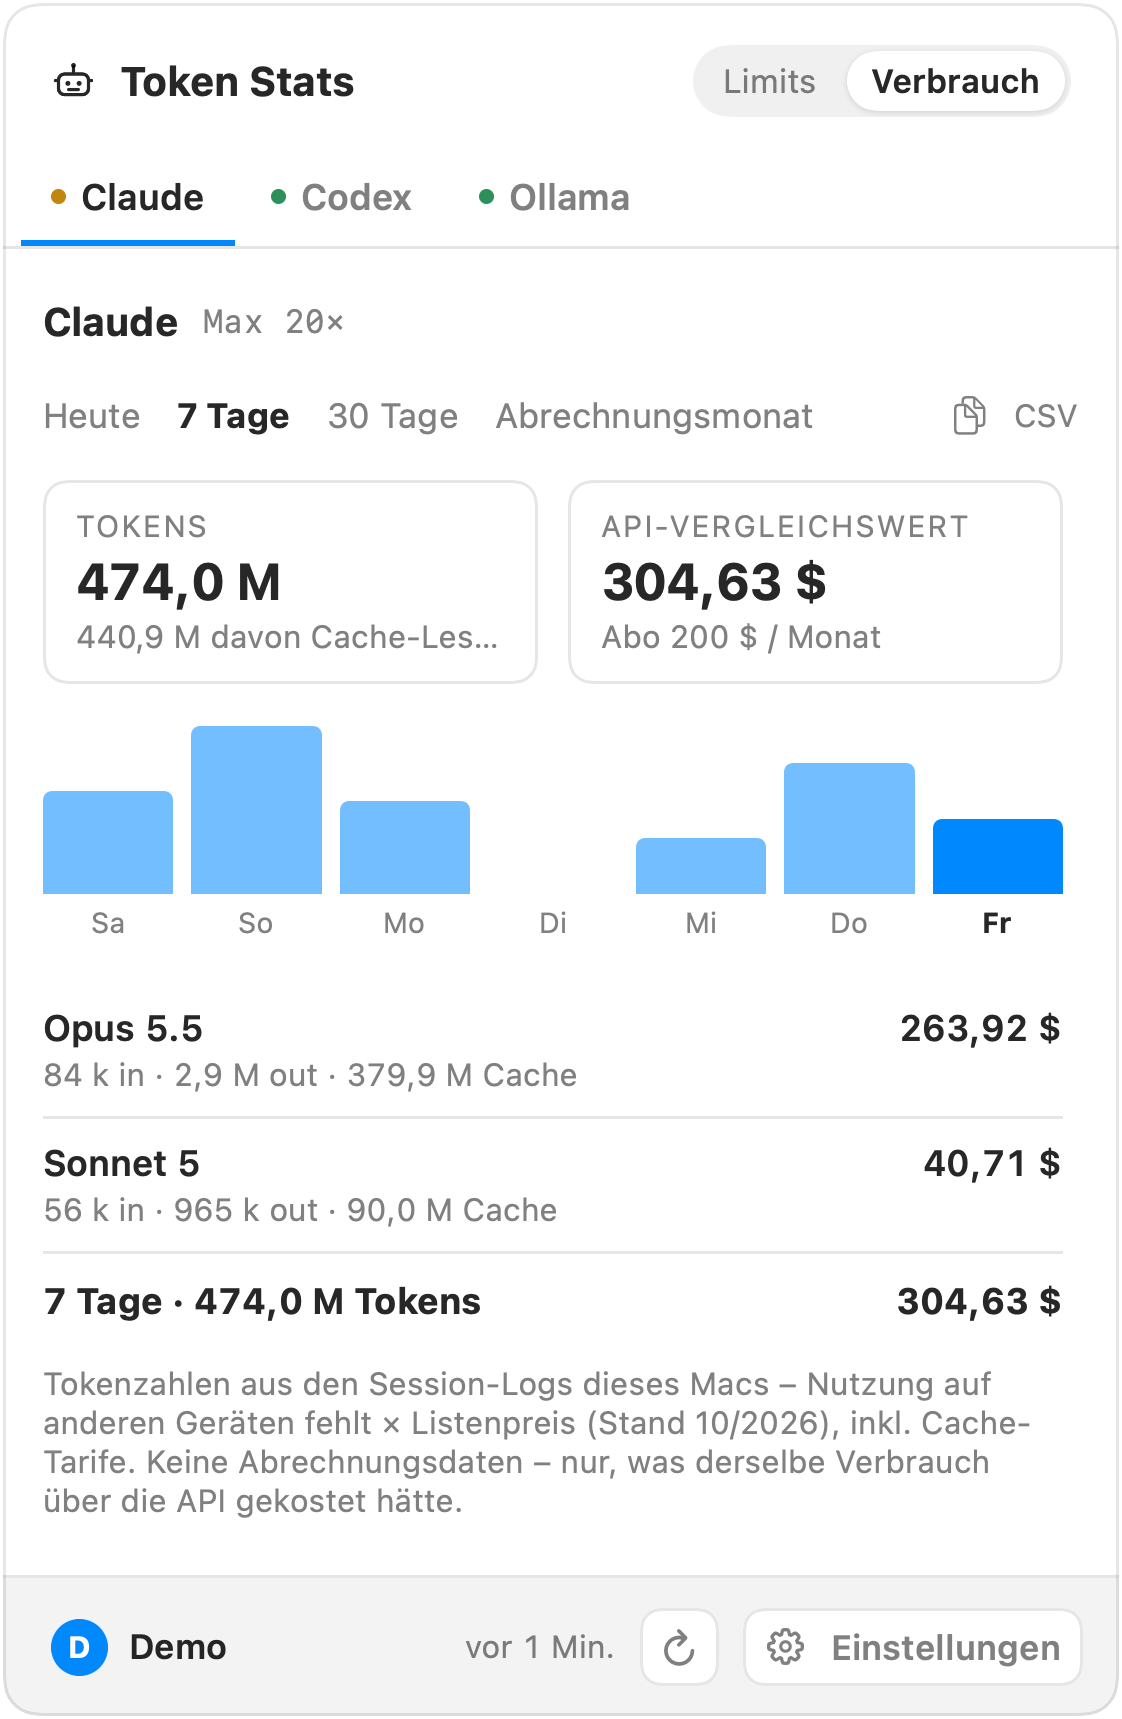
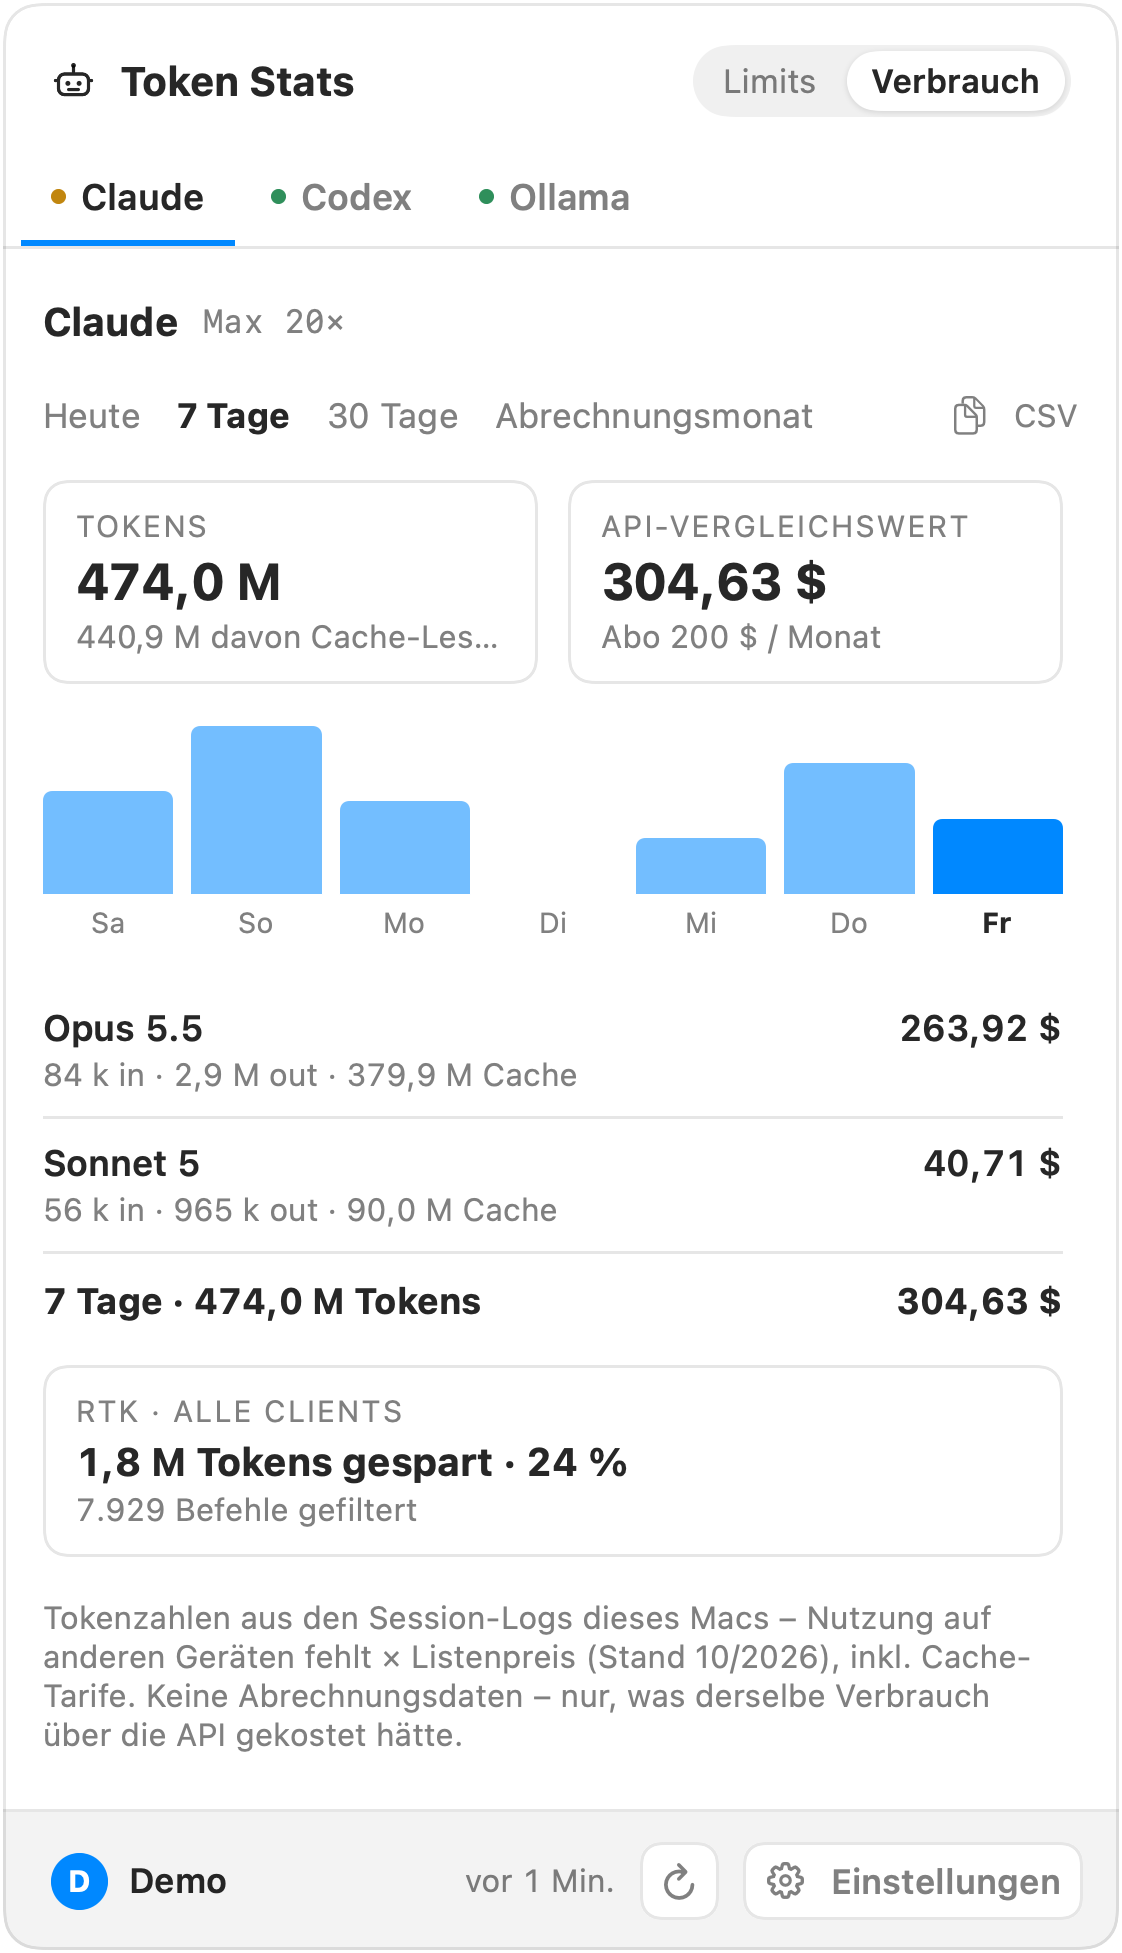
feat: rtk-Ersparnis auf der Seite „Verbrauch“ (#15)
Ist rtk installiert, zeigt die Seite „Verbrauch“ unter der Modell-Liste den Block
„RTK · alle Clients“ mit gesparten Tokens, Anteil und gefilterten Befehlen im
gewählten Zeitraum. Quelle ist `rtk gain --format json --daily`, ohne rtk fehlt
der Block. Kein Geldbetrag, nicht im CSV-Export und nicht in den Widgets.

diff --git a/Packages/TokenStatsCore/Sources/TokenStatsCore/Usage/RtkSavings.swift b/Packages/TokenStatsCore/Sources/TokenStatsCore/Usage/RtkSavings.swift
@@ -1,0 +1,75 @@
+import Foundation
+
+/// Ein Tag aus `rtk gain --format json --daily`: was rtk an Befehlsausgaben gefiltert hat.
+public struct RtkDay: Equatable, Sendable {
+    public var day: String          // "2026-11-20", Tagesgrenze von rtk
+    public var commands: Int
+    public var inputTokens: Int
+    public var savedTokens: Int
+
+    public init(day: String, commands: Int, inputTokens: Int, savedTokens: Int) {
+        self.day = day
+        self.commands = commands
+        self.inputTokens = inputTokens
+        self.savedTokens = savedTokens
+    }
+}
+
+/// Ersparnis durch rtk in einem Zeitraum – über alle Clients, rtk kennt den auslösenden Agent nicht.
+public struct RtkSummary: Equatable, Sendable {
+    public var commands: Int
+    public var inputTokens: Int
+    public var savedTokens: Int
+
+    public init(commands: Int = 0, inputTokens: Int = 0, savedTokens: Int = 0) {
+        self.commands = commands
+        self.inputTokens = inputTokens
+        self.savedTokens = savedTokens
+    }
+
+    /// Anteil der gesparten an den ungefilterten Tokens; `nil`, wenn nichts gefiltert wurde.
+    public var savedFraction: Double? {
+        inputTokens > 0 ? Double(savedTokens) / Double(inputTokens) : nil
+    }
+}
+
+/// Liest die Tageswerte, die `rtk gain` selbst ausgibt. Bewusst nicht rtks `history.db`:
+/// Das Schema ist undokumentiert, und die Rohsummen dort enthalten Einträge, die `rtk gain`
+/// nicht mitzählt – der Block soll mit `rtk gain` übereinstimmen.
+public enum RtkSavings {
+    public static let arguments = ["gain", "--format", "json", "--daily"]
+
+    /// `nil` bei kaputter JSON oder fehlendem `daily`; Tage ohne vollständige Zahlen fallen weg.
+    public static func parse(_ data: Data) -> [RtkDay]? {
+        guard let object = try? JSONSerialization.jsonObject(with: data) as? [String: Any],
+              let daily = object["daily"] as? [[String: Any]]
+        else { return nil }
+        return daily.compactMap { entry in
+            guard let day = entry["date"] as? String,
+                  let commands = (entry["commands"] as? NSNumber)?.intValue,
+                  let input = (entry["input_tokens"] as? NSNumber)?.intValue,
+                  let saved = (entry["saved_tokens"] as? NSNumber)?.intValue
+            else { return nil }
+            return RtkDay(day: day, commands: commands, inputTokens: input, savedTokens: saved)
+        }
+    }
+
+    /// Summe der Tage `from…through` (einschließlich), Schlüssel wie `UsageSummary.key`.
+    public static func summary(_ days: [RtkDay], from: String, through: String) -> RtkSummary {
+        days.filter { $0.day >= from && $0.day <= through }.reduce(into: RtkSummary()) { sum, day in
+            sum.commands += day.commands
+            sum.inputTokens += day.inputTokens
+            sum.savedTokens += day.savedTokens
+        }
+    }
+
+    /// Je Zeitraum die Summe, mit denselben Grenzen wie die Seite „Verbrauch“.
+    public static func summaries(_ days: [RtkDay], now: Date = .now, billingDay: Int,
+                                 calendar: Calendar = .current) -> [UsagePeriod: RtkSummary] {
+        Dictionary(uniqueKeysWithValues: UsagePeriod.allCases.map { period in
+            let range = period.range(now: now, billingDay: billingDay, calendar: calendar)
+            return (period, summary(days, from: UsageSummary.key(range.from, calendar),
+                                    through: UsageSummary.key(range.through, calendar)))
+        })
+    }
+}

diff --git a/Tests/TokenStatsTests/UsageTests.swift b/Tests/TokenStatsTests/UsageTests.swift
@@ -181,3 +181,48 @@ import TokenStatsCore
         #expect(csv.contains("\nGesamt;;1000010;100005;100000;2000000;3200015\n"))
     }
 }
+
+@Suite struct RtkSavingsTests {
+    // Auszug aus `rtk gain --format json --daily` (rtk 1.1.0).
+    static let json = #"""
+    {"summary":{"total_commands":3,"total_saved":30},
+     "daily":[
+      {"date":"2026-11-18","commands":10,"input_tokens":1000,"output_tokens":800,"saved_tokens":200,"savings_pct":20.0},
+      {"date":"2026-11-19","commands":5,"input_tokens":400,"output_tokens":300,"saved_tokens":100,"savings_pct":25.0},
+      {"date":"2026-11-20","commands":2,"input_tokens":"x","saved_tokens":1},
+      {"date":"2026-11-20","commands":3,"input_tokens":600,"output_tokens":450,"saved_tokens":150,"savings_pct":25.0}
+     ]}
+    """#
+
+    @Test func parsesDailyAndSkipsIncompleteDays() throws {
+        let days = try #require(RtkSavings.parse(Data(Self.json.utf8)))
+        #expect(days.count == 3)
+        #expect(days.first == RtkDay(day: "2026-11-18", commands: 10, inputTokens: 1000, savedTokens: 200))
+    }
+
+    @Test func brokenOrMissingDailyIsNil() {
+        #expect(RtkSavings.parse(Data("kein json".utf8)) == nil)
+        #expect(RtkSavings.parse(Data(#"{"summary":{}}"#.utf8)) == nil)
+        #expect(RtkSavings.parse(Data(#"{"daily":[]}"#.utf8)) == [])
+    }
+
+    @Test func summaryRespectsRangeBounds() throws {
+        let days = try #require(RtkSavings.parse(Data(Self.json.utf8)))
+        let sum = RtkSavings.summary(days, from: "2026-11-19", through: "2026-11-20")
+        #expect(sum == RtkSummary(commands: 8, inputTokens: 1000, savedTokens: 250))
+        #expect(sum.savedFraction == 0.25)
+        #expect(RtkSavings.summary(days, from: "2026-11-21", through: "2026-11-22") == RtkSummary())
+        #expect(RtkSummary().savedFraction == nil)
+    }
+
+    @Test func summariesFollowUsagePeriods() throws {
+        var calendar = Calendar(identifier: .gregorian)
+        calendar.timeZone = TimeZone(identifier: "Europe/Berlin")!
+        let now = try #require(calendar.date(from: DateComponents(year: 2026, month: 11, day: 20, hour: 12)))
+        let days = try #require(RtkSavings.parse(Data(Self.json.utf8)))
+        let byPeriod = RtkSavings.summaries(days, now: now, billingDay: 19, calendar: calendar)
+        #expect(byPeriod[.today]?.savedTokens == 150)
+        #expect(byPeriod[.week]?.savedTokens == 450)
+        #expect(byPeriod[.billing]?.savedTokens == 250)
+    }
+}

diff --git a/Sources/TokenStats/Usage/RtkReader.swift b/Sources/TokenStats/Usage/RtkReader.swift
@@ -1,0 +1,52 @@
+import Foundation
+import TokenStatsCore
+
+/// Ruft `rtk gain --format json --daily` auf, falls rtk installiert ist. Nur lokal, kein Netz.
+enum RtkReader {
+    /// GUI-Apps erben keinen Shell-PATH, darum die üblichen Installationsorte der Reihe nach.
+    static func executable(home: URL = FileManager.default.homeDirectoryForCurrentUser) -> URL? {
+        let candidates = [
+            URL(filePath: "/opt/homebrew/bin/rtk"),
+            URL(filePath: "/usr/local/bin/rtk"),
+            home.appending(path: ".cargo/bin/rtk"),
+            home.appending(path: ".local/bin/rtk"),
+        ]
+        return candidates.first { FileManager.default.isExecutableFile(atPath: $0.path) }
+    }
+
+    static let timeout: TimeInterval = 10
+
+    /// `nil`, wenn rtk fehlt, fehlschlägt, hängt oder etwas Unlesbares ausgibt – dann fehlt der Block.
+    static func load() async -> [RtkDay]? {
+        guard let url = executable() else { return nil }
+        return await Task.detached(priority: .utility) { run(url) }.value
+    }
+
+    private static func run(_ url: URL) -> [RtkDay]? {
+        let process = Process()
+        process.executableURL = url
+        process.arguments = RtkSavings.arguments
+        let output = Pipe()
+        process.standardOutput = output
+        process.standardError = FileHandle.nullDevice
+        process.standardInput = FileHandle.nullDevice
+        do { try process.run() } catch {
+            NSLog("Token Stats: rtk nicht startbar: \(error.localizedDescription)")
+            return nil
+        }
+        let watchdog = DispatchWorkItem { if process.isRunning { process.terminate() } }
+        DispatchQueue.global().asyncAfter(deadline: .now() + timeout, execute: watchdog)
+        let data = output.fileHandleForReading.readDataToEndOfFile()
+        process.waitUntilExit()
+        watchdog.cancel()
+        guard process.terminationStatus == 0 else {
+            NSLog("Token Stats: rtk gain endete mit \(process.terminationStatus)")
+            return nil
+        }
+        guard let days = RtkSavings.parse(data) else {
+            NSLog("Token Stats: Ausgabe von rtk gain nicht lesbar")
+            return nil
+        }
+        return days
+    }
+}

diff --git a/Sources/TokenStats/UI/UsageView.swift b/Sources/TokenStats/UI/UsageView.swift
@@ -125,6 +125,10 @@ struct UsageView: View {
             .padding(.top, 8)
         }
 
+        if let rtk = consumption.rtk?[period] {
+            RtkBlock(summary: rtk)
+        }
+
         Text(footnote(summary))
             .font(.system(size: 10.5))
             .foregroundStyle(.secondary)
@@ -176,6 +180,44 @@ private struct Tile: View {
         .padding(.vertical, 9)
         .background(RoundedRectangle(cornerRadius: 8).fill(.background))
         .overlay(RoundedRectangle(cornerRadius: 8).strokeBorder(.separator))
+    }
+}
+
+/// Ersparnis durch rtk im gewählten Zeitraum. rtk kennt den auslösenden Agent nicht,
+/// darum steht derselbe Block in jedem Tab und ohne Geldbetrag.
+private struct RtkBlock: View {
+    let summary: RtkSummary
+
+    var body: some View {
+        VStack(alignment: .leading, spacing: 2) {
+            Text("RTK · alle Clients".uppercased())
+                .font(.system(size: 10))
+                .tracking(0.6)
+                .foregroundStyle(.secondary)
+            if summary.commands == 0 {
+                Text("Keine gefilterten Befehle in diesem Zeitraum.")
+                    .font(.system(size: 11.5))
+                    .foregroundStyle(.secondary)
+            } else {
+                Text(saved)
+                    .font(.system(size: 13, weight: .bold))
+                Text("\(Format.number(Double(summary.commands), digits: 0)) Befehle gefiltert")
+                    .font(.system(size: 10.5))
+                    .foregroundStyle(.secondary)
+            }
+        }
+        .monospacedDigit()
+        .frame(maxWidth: .infinity, alignment: .leading)
+        .padding(.horizontal, 11)
+        .padding(.vertical, 9)
+        .background(RoundedRectangle(cornerRadius: 8).fill(.background))
+        .overlay(RoundedRectangle(cornerRadius: 8).strokeBorder(.separator))
+        .help("Aus rtk gain – Befehle aller Clients auf diesem Rechner")
+    }
+
+    private var saved: String {
+        let tokens = "\(Format.tokens(summary.savedTokens)) Tokens gespart"
+        return summary.savedFraction.map { "\(tokens) · \(Format.percent($0))" } ?? tokens
     }
 }
 

diff --git a/Packages/TokenStatsCore/Sources/TokenStatsCore/Widgets/DemoData.swift b/Packages/TokenStatsCore/Sources/TokenStatsCore/Widgets/DemoData.swift
@@ -115,6 +115,19 @@ public enum DemoData {
         }
     }
 
+    /// 30 Tage rtk-Ersparnis, etwa ein Viertel der Befehlsausgaben gefiltert.
+    public static func rtk(now: Date, billingDay: Int, calendar: Calendar = .current) -> [UsagePeriod: RtkSummary] {
+        let pattern: [Double] = [0.8, 1.1, 0.6, 1.3, 0.2, 0, 0.4, 1.0, 1.2, 0.7, 1.5, 0.9, 0.1, 0,
+                                 0.9, 0.5, 1.4, 1.1, 0.6, 0.3, 0.1, 1.2, 0.8, 1.0, 1.7, 0.9, 0, 0.5, 1.3, 0.7]
+        let today = calendar.startOfDay(for: now)
+        let days = pattern.enumerated().map { index, factor in
+            let day = calendar.date(byAdding: .day, value: index - (pattern.count - 1), to: today)!
+            return RtkDay(day: UsageSummary.key(day, calendar), commands: Int(1_300 * factor),
+                          inputTokens: Int(1_250_000 * factor), savedTokens: Int(300_000 * factor))
+        }
+        return RtkSavings.summaries(days, now: now, billingDay: billingDay, calendar: calendar)
+    }
+
     /// Der komplette Widget-Stand mit Demo-Werten, für Vorschau und README.
     public static func widgetSnapshot(now: Date, prices: PriceTable = DemoData.prices, showMoney: Bool = true) -> WidgetSnapshot {
         let snapshots = snapshots(now: now)

diff --git a/Sources/TokenStats/Usage/ConsumptionStore.swift b/Sources/TokenStats/Usage/ConsumptionStore.swift
@@ -9,6 +9,8 @@ final class ConsumptionStore {
     private(set) var isScanning = false
     private(set) var hasScannedOnce = false
     private(set) var failure: String?
+    /// Ersparnis durch rtk je Zeitraum, über alle Clients; `nil` = rtk nicht installiert oder nicht lesbar.
+    private(set) var rtk: [UsagePeriod: RtkSummary]?
 
     let prices = PriceTable.bundled
     private let ledger: UsageLedger?
@@ -44,9 +46,10 @@ final class ConsumptionStore {
 
     #if DEBUG
     /// Nur für Screenshots: feste Zusammenfassungen, ohne die Logs zu lesen.
-    func showDemo(_ demo: [String: [UsagePeriod: UsageSummary]]) {
+    func showDemo(_ demo: [String: [UsagePeriod: UsageSummary]], rtk demoRtk: [UsagePeriod: RtkSummary]? = nil) {
         timer?.invalidate()
         summaries = demo
+        rtk = demoRtk
         hasScannedOnce = true
     }
     #endif
@@ -72,7 +75,9 @@ final class ConsumptionStore {
                     )
                 }
             }
+            let rtkDays = await RtkReader.load()
             summaries = result
+            rtk = rtkDays.map { RtkSavings.summaries($0, billingDay: billingDay) }
             isScanning = false
             hasScannedOnce = true
         }

diff --git a/Sources/TokenStats/App/Screenshots.swift b/Sources/TokenStats/App/Screenshots.swift
@@ -30,7 +30,10 @@ struct Screenshots {
     /// Demo-Werte für Limits und Verbrauch; nichts wird abgefragt oder aus den Logs gelesen.
     func showDemo(now: Date = .now) {
         store.showDemo(Self.demoSnapshots(now: now))
-        consumption.showDemo(Self.demoUsage(now: now, billingDay: settings.billingDay, prices: consumption.prices))
+        consumption.showDemo(
+            Self.demoUsage(now: now, billingDay: settings.billingDay, prices: consumption.prices),
+            rtk: DemoData.rtk(now: now, billingDay: settings.billingDay)
+        )
     }
 
     private func capture(into directory: URL) async throws {

diff --git a/SPEC.md b/SPEC.md
@@ -115,6 +115,14 @@ Reset Mi 09:00                      1 Tag vorgegriffen
   den Einstellungen (Standard: 1.; in kürzeren Monaten gilt der Monatsletzte). „Abo x $ /
   Monat“ nur für bekannte Pläne (Claude Pro/Max 5×/Max 20×, Codex Plus/Pro).
   Die Modellzeile zeigt „Cache“ als Summe; die Aufteilung Schreiben/Lesen steht im Tooltip.
+- **RTK-Block (Issue #15):** Ist rtk installiert, steht unter der Modell-Liste „RTK · alle
+  Clients“ mit gesparten Tokens, Anteil und Zahl der gefilterten Befehle im gewählten
+  Zeitraum; ohne Befehle im Zeitraum ein Hinweis, ohne rtk kein Block. rtk hält nicht fest,
+  welcher Agent einen Befehl ausgelöst hat, darum steht in Claude und Codex derselbe Block.
+  Kein Geldbetrag: Was eine gesparte Ausgabe wert ist, hängt zu stark von Modell und Cache
+  ab. Quelle ist `rtk gain --format json --daily`, nicht rtks `history.db` – deren Schema
+  ist undokumentiert, und die Rohsummen enthalten Einträge, die `rtk gain` nicht mitzählt.
+  Die Tagesgrenzen sind die von rtk. Nicht im CSV-Export und nicht in den Widgets.
 - **Cache getrennt ausweisen** ist Pflicht: bei Claude Code sind oft ~80 % des Volumens
   Cache-Reads zu einem Bruchteil des Input-Preises. Eine nackte Gesamt-Tokenzahl führt
   in die Irre.
@@ -177,6 +185,7 @@ Auf dem Zielrechner bereits vorhanden: `~/.claude`, `~/.codex`, `~/.gemini`,
 | **GitHub Copilot** | Premium-Requests/Monat, Chat-Quota | `gh`-Token / `~/.copilot` → Copilot-Usage-API | v3 |
 | **Cursor** | Monatskontingent, Usage-based-Kosten | Cursor-Anmeldung → Dashboard-API | v3 |
 | **Prepaid** (OpenRouter, DeepSeek, Moonshot, Fireworks) | Restguthaben, **echter** Betrag | API-Key aus Umgebungsvariable oder Schlüsselbund → Balance-Endpunkt | v3 |
+| **RTK-Ersparnis** | gesparte Tokens, Anteil, gefilterte Befehle je Zeitraum (alle Clients) | `rtk gain --format json --daily`, lokal aufgerufen (macOS: `/opt/homebrew/bin`, `/usr/local/bin`, `~/.cargo/bin`, `~/.local/bin`; Windows: `.cargo\bin`, `.local\bin`, `PATH`) | v2 ✅ |
 | **Verbrauch & API-Vergleichswert** | Tokens pro Tag und Modell (in/out/Cache) → Listenpreis-Gegenwert | `~/.claude/projects/**/*.jsonl` bzw. Session-Logs der CLI × mitgelieferte Preistabelle | v2 |
 
 ### Wichtige Randbedingungen

diff --git a/README.md b/README.md
@@ -44,6 +44,9 @@ keine Cloud, keine Telemetrie.
   in Zeit umgerechnet, z. B. `1 Tag vorgegriffen` oder `4 Tage ungenutzt`.
 - **Verbrauch** für Heute, 7 Tage, 30 Tage oder den Abrechnungsmonat: Tokens mit
   getrennt ausgewiesenem Cache-Anteil, Tagesdiagramm und Aufschlüsselung je Modell.
+- **rtk-Ersparnis:** Ist [rtk](https://github.com/rtk-ai/rtk) installiert, zeigt die Seite
+  „Verbrauch“ für denselben Zeitraum, wie viele Tokens rtk eingespart hat – über alle
+  Clients, so wie `rtk gain` es meldet.
 - **API-Vergleichswert** aus Tokenzahl × Listenpreis, mit mitgelieferter Preistabelle.
   Abschaltbar, wenn du nur Tokens sehen willst.
 - **CSV kopieren:** Der angezeigte Zeitraum landet mit einem Klick als CSV in der
